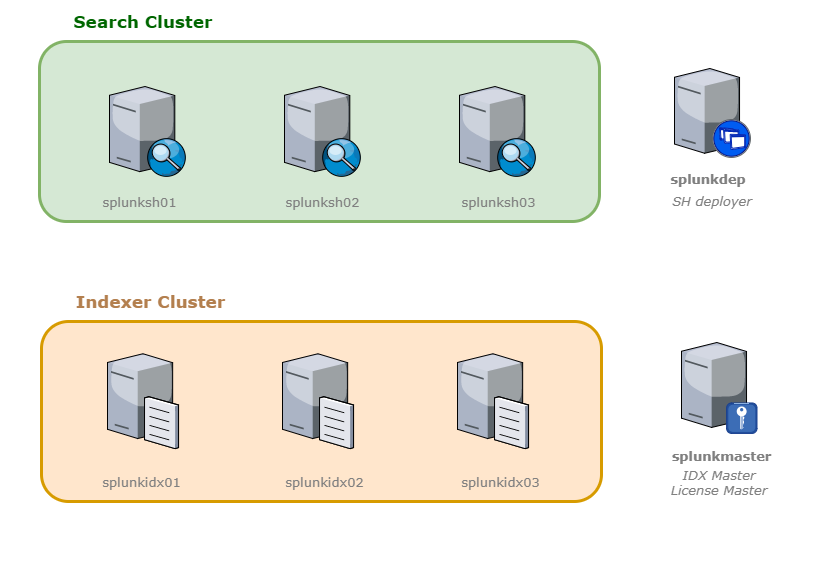
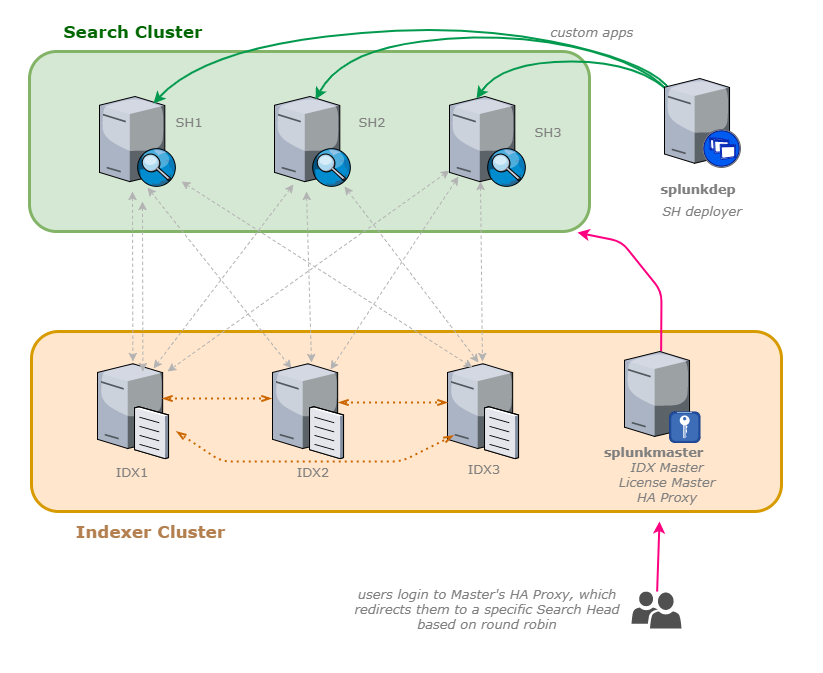
splunk

diff --git a/README.md b/README.md
@@ -9,25 +9,24 @@
 ### based on https://github.com/cuddlesec/ansible-splunk-simple
 ### also based on Bash-driven setup:   https://github.com/aplura/Vagrant_Splunk_Cluster
 
-Ansible-based Splunk Cluster creator
-
 Tested on Centos 7 x64
 
-These playbooks create 2 Clusters (SH and Indexer) in addition to creating a Splunk Indexer Master and a Splunk SearchHead Deployer. 
-
-They also add Search Heads as search peers on the Indexer cluster
+These playbooks create custom Splunk app called Spaceballs that setup 2 Clusters (SH and Indexer) in addition to creating a Splunk Indexer Master and a Splunk SearchHead Deployer. 
 
 The end result is this:
 ![chart](Splunk_cluster.png)
 
 ---
 ### Run in following order:
-1. update Hosts file with Search Head and Cluster Master, update Deployer and Master IPs
-1. update config.yaml file for correct splunk version, passwords, IPs, etc
+1. update Hosts file with Search Head and Cluster Master, update Deployer and Master IPs, 
+   *Make sure your include FQDN hostnames, not short names, otherwise the setup wont work properly *
+
+1. update config.yaml file for correct splunk version, passwords, labels, etc
   
-1. run LUDICROUS SPEED to install master, indexers, deployer, search heads 
+1. run playbook to install master, indexers, deployer, search heads  
     ```bash 
     ansible-playbook -i hosts play_ludicrous_speed.yaml -v
     ```
 
-Login to Master < masterIP >:8000 and click Settings > Indexer clustering to see the clusters at work.
+Login to the Master server <master ip>:8000
+check under Settings > Distributed Environment > INdexer clustering + Distributed search
